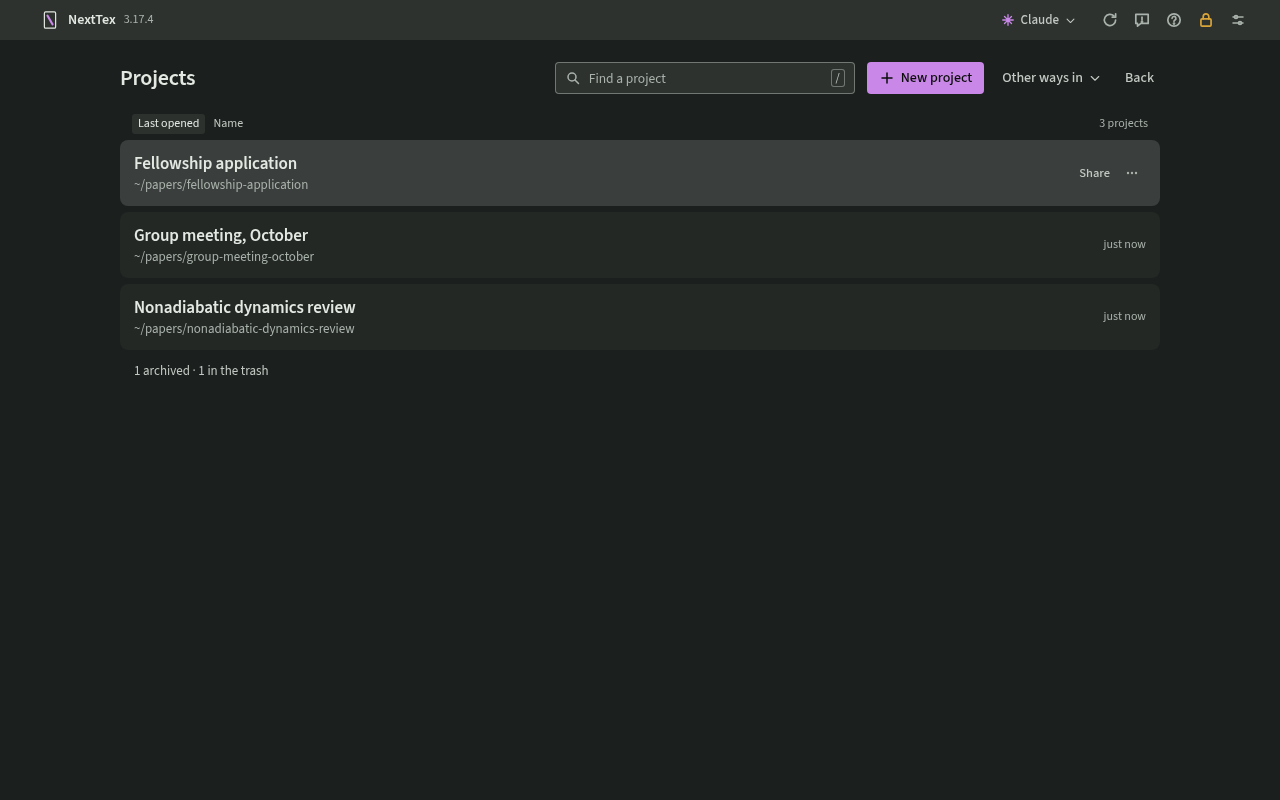
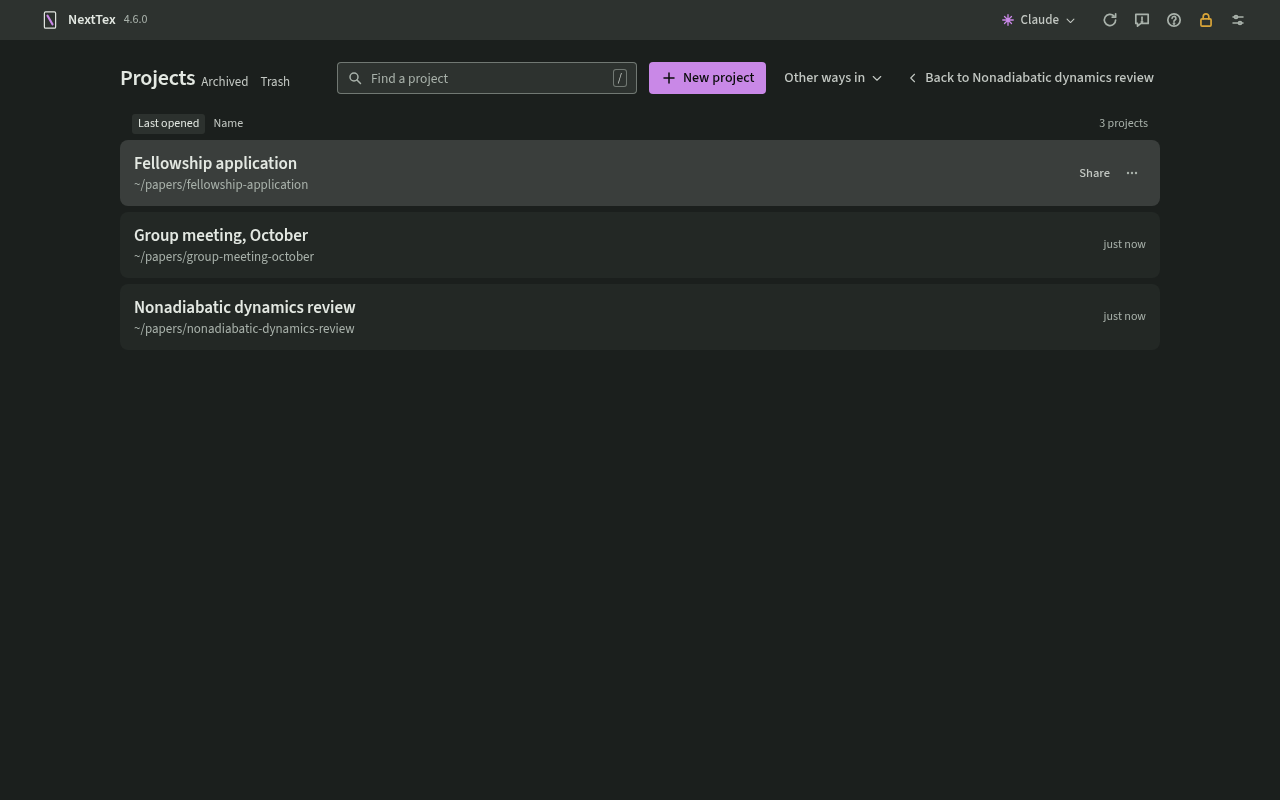
Archived and Trash are always beside the Projects heading
The writer asked how to see archived and trashed projects, since the
projects screen showed no button for them. The way in was a quiet line
under the list, "2 archived · 1 in the trash", drawn only when one of the
two held something. On an install where nothing had been put away there
was no way in at all, and on a long list the line sat below the last
row, out of sight until the list was scrolled to its end.

Now two quiet links, Archived and Trash, sit beside the heading in every
state of the list, in the place and style "Back to projects" already has
in those two views. They carry no count; each view's own line says how
many it holds, and an empty view opens to its one sentence. The line
under the list is gone; under the trash it still holds Empty the trash.
The writer saw the drawing on the direction page first and approved it
as drawn; the real screen was rendered in both themes beside it, and the
gap between the two links was widened to the drawing's 12 px.

projects-states.spec.ts finds both links on a list with nothing put away,
opens the empty Archived view from one, and finds no line under the list
once projects are archived and trashed. The screen guide, the README, its
two screenshots and design.md section 55 say where the views are now.

Claude-Session: https://claude.ai/code/session_01KCacuoqpoCbcd7EiLa6rwf

diff --git a/e2e/specs/projects-states.spec.ts b/e2e/specs/projects-states.spec.ts
@@ -15,7 +15,7 @@ async function land(app: { base: string; token: string }, page: import("@playwri
   await page.getByRole("heading", { name: "Projects" }).waitFor();
 }
 
-test("Archive and Trash move a row to its view, Restore brings it back, and the quiet line counts", async ({
+test("Archive and Trash move a row to its view, Restore brings it back, and the heading always offers both views", async ({
   app,
   page,
 }) => {
@@ -24,8 +24,14 @@ test("Archive and Trash move a row to its view, Restore brings it back, and the 
   await seedProject(app, "scratch");
   await land(app, page);
   await expect(page.getByTestId("project-row")).toHaveCount(3);
-  // Nothing under the list while nothing is archived or in the trash.
+  // The way to either view is beside the heading even while both are
+  // empty, and nothing sits under the list.
+  await expect(page.getByTestId("view-archived")).toHaveText("Archived");
+  await expect(page.getByTestId("view-trash")).toHaveText("Trash");
   await expect(page.getByTestId("projects-under")).toHaveCount(0);
+  await page.getByTestId("view-archived").click();
+  await expect(page.getByTestId("view-empty")).toContainText("Nothing is archived.");
+  await page.getByTestId("view-back").click();
 
   const rowNamed = (name: string) =>
     page.getByTestId("project-row").filter({ hasText: name });
@@ -38,8 +44,7 @@ test("Archive and Trash move a row to its view, Restore brings it back, and the 
   await page.getByTestId("row-trash").click();
   await expect(page.getByTestId("project-row")).toHaveCount(1);
   await expect(page.getByTestId("project-count")).toHaveText("1 project");
-  const under = page.getByTestId("projects-under");
-  await expect(under).toHaveText("1 archived · 1 in the trash");
+  await expect(page.getByTestId("projects-under")).toHaveCount(0);
 
   // The Archived view: the heading, the way back, the same rows with
   // the state after the path, and Open, Restore and Trash on hover.
@@ -82,7 +87,7 @@ test("Archive and Trash move a row to its view, Restore brings it back, and the 
   await expect(page.getByTestId("view-empty")).toContainText("The trash is empty.");
   await page.getByTestId("view-back").click();
   await expect(page.getByTestId("project-row")).toHaveCount(2);
-  await expect(under).toHaveText("1 archived");
+  await expect(page.getByTestId("view-archived")).toBeVisible();
 });
 
 test("Delete in the trash forgets the entry after asking, and Empty the trash forgets them all", async ({
@@ -122,7 +127,7 @@ test("Delete in the trash forgets the entry after asking, and Empty the trash fo
   await page.getByTestId("view-back").click();
   await expect(page.getByTestId("project-row")).toHaveCount(1);
   await expect(page.getByTestId("project-row")).toContainText("kept");
-  await expect(page.getByTestId("projects-under")).toHaveCount(0);
+  await expect(page.getByTestId("view-trash")).toBeVisible();
 
   // The files were never touched.
   const listed = await (await page.request.get(`${app.base}/api/projects`)).json();
@@ -146,7 +151,8 @@ test("opening an archived project makes it active again", async ({ app, page }) 
   await page.getByTestId("switch-project").click();
   await page.getByRole("heading", { name: "Projects" }).waitFor();
   await expect(page.getByTestId("project-row")).toHaveCount(1);
-  await expect(page.getByTestId("projects-under")).toHaveCount(0);
+  await page.getByTestId("view-archived").click();
+  await expect(page.getByTestId("view-empty")).toContainText("Nothing is archived.");
   const listed = await (await page.request.get(`${app.base}/api/projects`)).json();
   expect(listed.projects[0].state).toBe("active");
 });

diff --git a/frontend/src/panes/Projects.tsx b/frontend/src/panes/Projects.tsx
@@ -663,6 +663,11 @@ export default function Projects({
             <h2 className="t-display text-ink">
               {view === "active" ? "Projects" : view === "archived" ? "Archived" : "Trash"}
             </h2>
+            {/* The way between the three views, beside the heading in
+                every one of them.  Archived and Trash are always here,
+                empty or not: a way in that appears only once something
+                has been put away is one nobody has learned by then, and a
+                line under the list is out of sight on a long one. */}
             {view !== "active" ? (
               <Pressable
                 type="button"
@@ -672,7 +677,26 @@ export default function Projects({
               >
                 Back to projects
               </Pressable>
-            ) : null}
+            ) : (
+              <>
+                <Pressable
+                  type="button"
+                  className="nx-projects-link"
+                  data-testid="view-archived"
+                  onClick={() => setView("archived")}
+                >
+                  Archived
+                </Pressable>
+                <Pressable
+                  type="button"
+                  className="nx-projects-link"
+                  data-testid="view-trash"
+                  onClick={() => setView("trashed")}
+                >
+                  Trash
+                </Pressable>
+              </>
+            )}
             <span className="flex-1" />
             <Field
               ref={filterBox}
@@ -1139,24 +1163,8 @@ export default function Projects({
               )}
             </div>
           ))}
-          {/* Under the projects, only when there is something in it: the
-              counts, each the way to its view.  Under the trash, the one
-              way to empty it, with the same confirm every row has. */}
-          {loaded && view === "active" && (counts.archived || counts.trashed) ? (
-            <div className="nx-projects-under" data-testid="projects-under">
-              {counts.archived ? (
-                <Pressable type="button" className="nx-projects-link" data-testid="view-archived" onClick={() => setView("archived")}>
-                  {counts.archived} archived
-                </Pressable>
-              ) : null}
-              {counts.archived && counts.trashed ? " · " : null}
-              {counts.trashed ? (
-                <Pressable type="button" className="nx-projects-link" data-testid="view-trash" onClick={() => setView("trashed")}>
-                  {counts.trashed} in the trash
-                </Pressable>
-              ) : null}
-            </div>
-          ) : null}
+          {/* Under the trash, the one way to empty it, with the same
+              confirm every row has. */}
           {loaded && view === "trashed" && counts.trashed ? (
             <div className="nx-projects-under" data-testid="projects-under">
               {emptying ? (

diff --git a/frontend/src/styles.css b/frontend/src/styles.css
@@ -1329,13 +1329,14 @@ input, textarea { font: inherit; color: inherit; background: transparent; }
 .nx-project-where { grid-area: where; color: var(--ink-3); font-size: 13px; line-height: 18px; min-width: 0; overflow: hidden; text-overflow: ellipsis; white-space: nowrap; }
 .nx-project-tail { grid-area: tail; justify-self: end; }
 .nx-project-form { grid-area: form; margin-top: 8px; }
-/* The quiet line under the list: the counts of the other two views,
-   each a link; under the trash, "Empty the trash".  The way back from a
-   view is the same link beside the heading. */
+/* The quiet links beside the heading: Archived and Trash on the
+   projects, "Back to projects" in either of those views.  The line under
+   the trash holds "Empty the trash". */
 .nx-projects-under { padding: 6px 14px 12px; color: var(--ink-3); font-size: 13px; line-height: 18px; }
 .nx-projects-link { color: var(--ink-2); font-size: 13px; line-height: 18px; border-radius: var(--nx-radius-control); }
 .nx-projects-link:hover, .nx-projects-link:focus-visible { color: var(--ink); }
 .nx-projects-head .nx-projects-link { margin-left: -6px; align-self: end; padding-bottom: 3px; }
+.nx-projects-head .nx-projects-link + .nx-projects-link { margin-left: 0; }
 /* The stamp after the path in the Archived and Trash views: the tail
    says it at rest, and it reappears here while the pointer takes the
    tail for the actions, so it is never lost.  A screen with nothing to

diff --git a/e2e/shots/fidelity.spec.ts b/e2e/shots/fidelity.spec.ts
@@ -598,16 +598,16 @@ const SURFACES: Record<string, Surface> = {
       await tab.locator(".cm-editor").waitFor({ timeout: 30_000 });
     },
   },
-  /* The two views and the quiet line under the list.  The harness has
-     one project; a second, archived or trashed through the route, is
-     copied beside it so the list has a row in each state. */
-  "projects-under": {
+  /* The projects with the way to the two views beside the heading.  The
+     harness has one project; a second, archived or trashed through the
+     route, is copied beside it so the list has a row in each state. */
+  "projects-views": {
     open: async (tab) => {
       await seedState(tab, "archived", "thesis-2025");
       await seedState(tab, "trashed", "aims-2023");
       await tab.getByTestId("switch-project").click();
       await tab.getByText("Projects", { exact: true }).waitFor();
-      await tab.getByTestId("projects-under").waitFor();
+      await tab.getByTestId("view-archived").waitFor();
       return tab.locator(".nx-projects");
     },
     close: async (tab) => {

diff --git a/frontend/src/panes/tutorial/ScreenGuide.tsx b/frontend/src/panes/tutorial/ScreenGuide.tsx
@@ -92,7 +92,7 @@ const ROWS: [string, string][] = [
   ],
   [
     "Point at a row",
-    "Share, and More: a zip or the PDF, Archive, and Move to the trash. Share gives you an invite without opening the project. Archive keeps a finished project out of the way; the trash puts one on the way out. The line under the list opens either view, where Restore brings a project back and Delete forgets it.",
+    "Share, and More: a zip or the PDF, Archive, and Move to the trash. Share gives you an invite without opening the project. Archive keeps a finished project out of the way; the trash puts one on the way out. Archived and Trash beside the heading open either view, where Restore brings a project back and Delete forgets it.",
   ],
   [
     "The bar",

diff --git a/e2e/specs/projects-list.spec.ts b/e2e/specs/projects-list.spec.ts
@@ -121,7 +121,7 @@ test("a row says when it was opened, and its actions are there without a hover",
   await expect(actions).toHaveCSS("opacity", "1");
   await menu.getByRole("menuitem", { name: "Archive" }).click();
   // Archiving asks nothing: it is reversible.  The row leaves the list
-  // and the quiet line under it says where it went.
+  // and Archived beside the heading is the way to it.
   await expect(page.getByTestId("project-row")).toHaveCount(0);
   await page.getByTestId("view-archived").click();
   await expect(page.getByRole("heading", { name: "Archived" })).toBeVisible();

diff --git a/frontend/src/project-filter.test.ts b/frontend/src/project-filter.test.ts
@@ -101,7 +101,7 @@ describe("the three views", () => {
     expect(visibleProjects(rows, "aims", "name").map((r) => r.name)).toEqual([]);
   });
 
-  it("count each view for the quiet line under the list", () => {
+  it("count each view for its own header line", () => {
     expect(viewCounts(rows)).toEqual({ active: 1, archived: 2, trashed: 1 });
     expect(viewCounts([])).toEqual({ active: 0, archived: 0, trashed: 0 });
   });

diff --git a/e2e/shots/hero.spec.ts b/e2e/shots/hero.spec.ts
@@ -169,7 +169,7 @@ async function toProjects(tab: Page, app: Instance, home: string) {
   }
   await tab.getByTestId("switch-project").click();
   await tab.getByText("Projects", { exact: true }).waitFor();
-  await tab.getByTestId("projects-under").waitFor();
+  await tab.getByTestId("view-archived").waitFor();
   await tab.waitForTimeout(300);
 }
 

diff --git a/README.md b/README.md
@@ -161,9 +161,9 @@ close the tab. No database, no Docker, no nginx.
   other's cursors, and anything either of you wrote offline is merged rather
   than fought over when you reconnect.
 - **Share, archive and trash from the list.** A project's row offers all
-  three without opening it. Archived projects and the trash are two views
-  under the list, and Restore brings one back; NextTex never deletes a
-  folder.
+  three without opening it. Archived and Trash, beside the Projects
+  heading, open the two views, and Restore brings one back; NextTex never
+  deletes a folder.
 - **Losing your folder is not losing your place.** Delete or move your copy
   and nobody else is touched; rejoin from your collaborators with no new
   invite, into an empty folder or a copy you already have.
@@ -567,12 +567,12 @@ history and a GitHub backup, is in
 
 <picture>
   <source media="(prefers-color-scheme: dark)" srcset="docs/screenshot-projects-dark.png">
-  <img alt="The projects screen: an app bar with the writing agent, the update, report and help buttons, the lock that says there is no password yet, and Settings; the list of projects with the find field, New project and Other ways in above it; a row under the pointer showing Share and a More button; and a quiet line under the list counting one archived project and one in the trash." src="docs/screenshot-projects-light.png">
+  <img alt="The projects screen: an app bar with the writing agent, the update, report and help buttons, the lock that says there is no password yet, and Settings; the list of projects with the find field, New project and Other ways in above it; Archived and Trash as quiet links beside the Projects heading; and a row under the pointer showing Share and a More button." src="docs/screenshot-projects-light.png">
 </picture>
 
 *The projects screen. A row under the pointer shows what can be done to it
-without opening it; the line under the list is where the archived ones and
-the trash are.*
+without opening it; Archived and Trash, beside the heading, are where the
+projects you put away are.*
 
 ## How it works
 
@@ -1576,8 +1576,9 @@ project's.
 A project is registered, not imported, so NextTex never deletes a folder.
 A row's **Archive** puts a project that is finished, a thesis submitted or
 an application sent, out of the way and keeps it; **Trash** puts one on
-the way out. A quiet line under the list counts both and opens their
-views, where **Restore** brings a project back, opening one makes it
+the way out. **Archived** and **Trash**, two quiet links beside the
+Projects heading, open their views, always there whether or not anything
+is in them, where **Restore** brings a project back, opening one makes it
 active again, and **Delete** in the trash, or **Empty the trash**, forgets
 the entry and leaves the files exactly where they are.
 

diff --git a/docs/design.md b/docs/design.md
@@ -9478,8 +9478,11 @@ route.
 **Screen.** As drawn on version 19 of the direction page and agreed. A
 row's actions are Open, Share, Zip, PDF, Archive and Trash; "Remove from
 NextTex" with its confirm is gone, since both new states are reversible and
-need none. Under the list a quiet line appears only when there is something
-in it, "2 archived · 1 in the trash", each count a link to its view. The
+need none. Beside the heading two quiet links, Archived and Trash, open the
+two views; until 4.7.0 the way in was a line under the list, "2 archived · 1
+in the trash", shown only when there was something in it, which left an
+install with nothing put away no way in at all (see the section on the way
+to Archived and Trash below). The
 Archived view has the heading "Archived" with "Back to projects" beside it
 and rows offering Open, Restore and Trash; the Trash view has the heading
 "Trash", rows offering Restore and Delete in the error colour, Delete
@@ -11186,3 +11189,27 @@ engine in the build directory is how such files get damaged.
 file kept, presses Rebuild everything and finds it gone with another
 document's file untouched, then fills the `.aux` with NUL bytes and
 builds past it with Rebuild everything.
+
+## 85. The way to Archived and Trash is always beside the heading
+
+The writer asked on 28 September 2026 how to see archived and trashed
+projects, since the projects screen showed no button for them. The way in
+was a quiet line under the list, "2 archived · 1 in the trash", drawn only
+when one of the two held something. On an install where nothing had been
+put away there was no way in at all, and on a long list the line sat below
+the last row, out of sight until the list was scrolled to its end. A way in
+that appears only once it is needed is one nobody has learned by then,
+which is the reason the find field and the sort are always drawn.
+
+Now two quiet links, Archived and Trash, sit beside the Projects heading
+in every state of the list. They are the link "Back to projects" already
+was in those two views, in the same place and style, so the heading row
+reads the same in all three. They carry no count; each view's own line
+says how many it holds, and a view with nothing in it opens to its one
+sentence with Back to projects. The line under the list is gone; under the
+trash the same line still holds Empty the trash. The writer saw the drawing
+on the direction page first, as they asked, and approved it as drawn.
+
+`e2e/specs/projects-states.spec.ts` finds both links on a list with nothing
+put away, opens the empty Archived view from one, and finds no line under
+the list once a project has been archived and another trashed.
